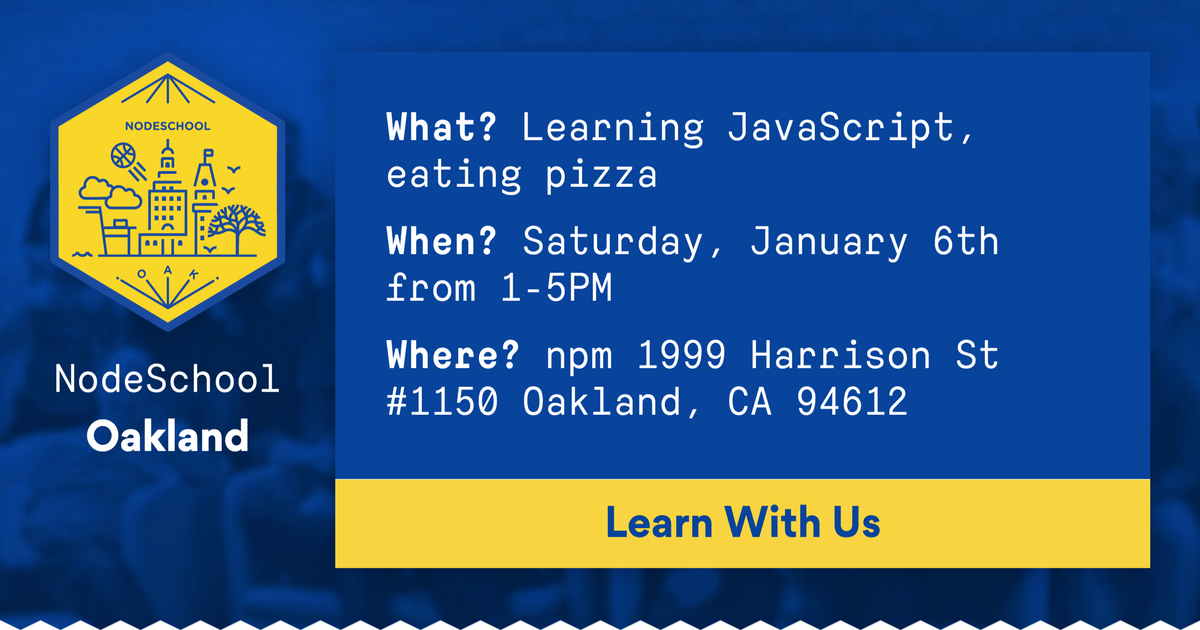
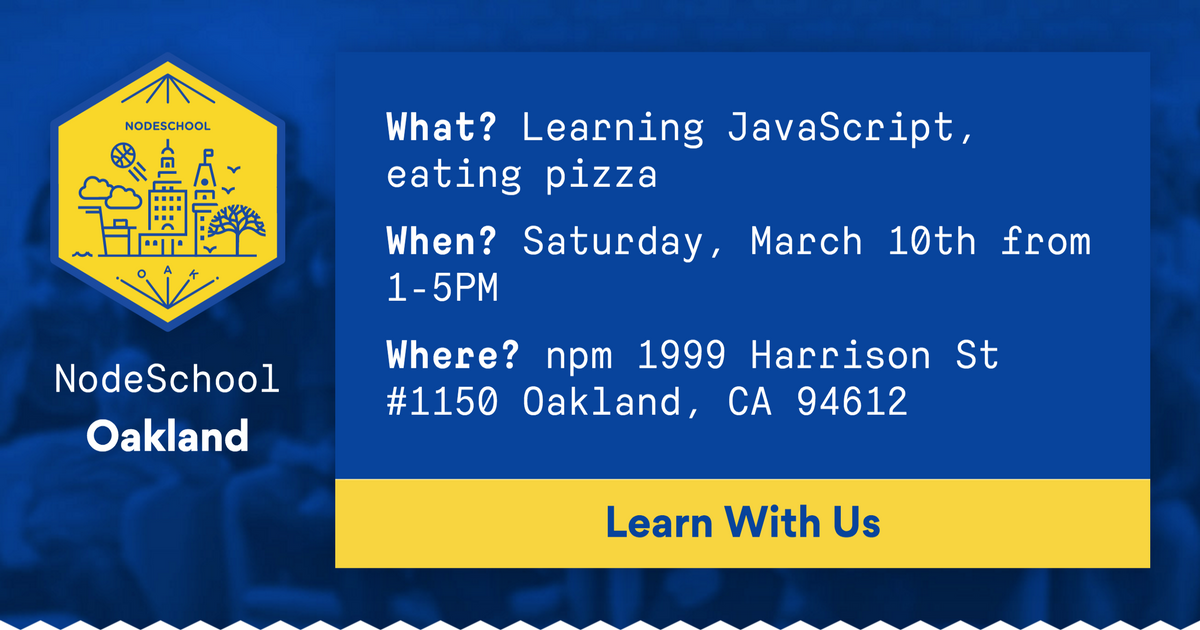
AUTOMATIC site update

Changed region(s): [[0.6167, 0.3619, 0.925, 0.4222], [0.3083, 0.4222, 0.5242, 0.4825]]

diff --git a/docs/index.html b/docs/index.html
@@ -7,14 +7,14 @@
     <meta property="og:type" content="website" />
     <meta property="og:description" content="NodeSchool Oakland is a monthly meetup dedicated to helping people learn JavaScript." />
     <meta property="og:url" content="https://nodeschool.io/oakland/" />
-    <meta property="og:image" content="https://nodeschool.io/oakland/images/social.png?t=1513648011905" />
+    <meta property="og:image" content="https://nodeschool.io/oakland/images/social.png?t=1519161056131" />
     <!--Twitter-->
     <meta name="twitter:card" content="summary_large_image">
     <meta name="twitter:site" content="@nodeschooloak">
     <meta name="twitter:creator" content="@nodeschooloak">
     <meta name="twitter:title" content="NodeSchool Oakland">
     <meta name="twitter:description" content="NodeSchool Oakland is a monthly meetup dedicated to helping people learn JavaScript.">
-    <meta name="twitter:image" content="https://nodeschool.io/oakland/images/social.png?t=1513648011905">
+    <meta name="twitter:image" content="https://nodeschool.io/oakland/images/social.png?t=1519161056131">
 
     <title>NodeSchool Oakland</title>
     <link rel="stylesheet" href="./styles/index.css" />
@@ -63,10 +63,10 @@
 
           <div class="next-event">
             <div class="next-event__description">
-              <h2 class="next-event__heading">Our Next Event is on January 6th</h2>
+              <h2 class="next-event__heading">Our Next Event is on March 10th</h2>
               <ul class="next-event__info">
                 <li class="next-event__info__item">
-                  <strong class="strong--alt">When?</strong> Saturday, January 6th from 1-5PM
+                  <strong class="strong--alt">When?</strong> Saturday, March 10th from 1-5PM
                 </li>
                 <li class="next-event__info__item">
                   <strong class="strong--alt">Where?</strong> npm 1999 Harrison St #1150 Oakland, CA 94612 [<a href="http://maps.google.com/?q=1999%20Harrison%20St%20%231150%20Oakland%2C%20CA%2094612">map</a>]
@@ -77,9 +77,9 @@
               </ul>
             </div>
             <nav class="next-event__actions">
-              <a class="next-event__action__learner next-event__action button" href="https:&#x2F;&#x2F;ti.to&#x2F;nodeschool-oakland&#x2F;nodeschool-oakland-january-2018">
+              <a class="next-event__action__learner next-event__action button" href="https:&#x2F;&#x2F;ti.to&#x2F;nodeschool-oakland&#x2F;nodeschool-oakland-march-2018">
                 Sign up as a Learner
-              </a><a class="next-event__action__mentor next-event__action button" href="https:&#x2F;&#x2F;github.com&#x2F;nodeschool&#x2F;oakland&#x2F;issues&#x2F;58">
+              </a><a class="next-event__action__mentor next-event__action button" href="https:&#x2F;&#x2F;github.com&#x2F;nodeschool&#x2F;oakland&#x2F;issues&#x2F;59">
                 Sign up as a Mentor
               </a>
             </nav>

diff --git a/docs/social.html b/docs/social.html
@@ -20,7 +20,7 @@
         <div class="social__message next-event">
           <div class="next-event__description">
             <p><strong>What?</strong> Learning JavaScript, eating pizza</p>
-            <p><strong>When?</strong> Saturday, January 6th from 1-5PM</p>
+            <p><strong>When?</strong> Saturday, March 10th from 1-5PM</p>
             <p><strong>Where?</strong> npm 1999 Harrison St #1150 Oakland, CA 94612</p>
           </div>
           <div class="next-event__actions">
